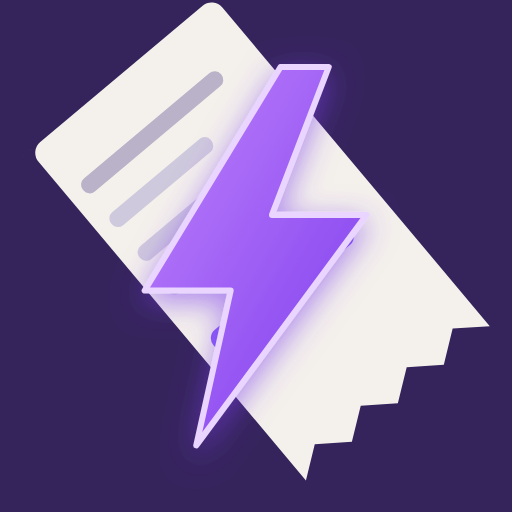
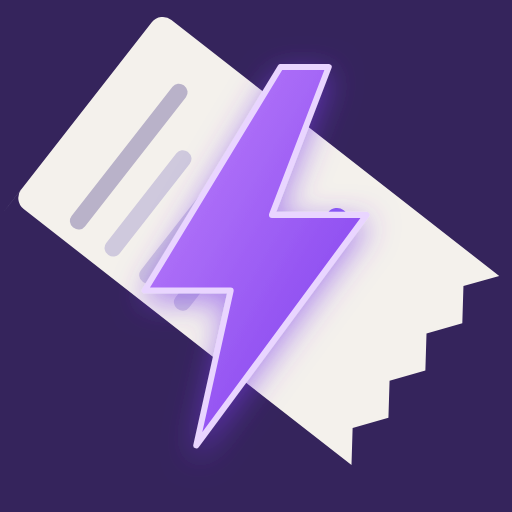
アイコンの領収書の傾きを-52°に
Claude-Session: https://claude.ai/code/session_01M7TmCoUV6As5ur3WRm9Z6P

diff --git a/docs/index.html b/docs/index.html
@@ -592,7 +592,7 @@ const DRAFT_IMAGE_ID = "__draft__";
 const CROP_DRAFT_IMAGE_ID = "__crop_draft__"; // トリミング前の選択写真（リロード復元用）
 const DEFAULT_MODEL = "gpt-5.4";
 // UIに関わる変更をpushするたびに更新する（設定タブに表示。キャッシュで旧版が出ていないかの確認用）
-const APP_VERSION = "2026-07-08.21 アイコンの傾き-40°";
+const APP_VERSION = "2026-07-08.22 アイコンの傾き-52°";
 
 // OCRプロンプト: ExpenseVBA(modReceiptOCR.bas)と同一文言。抽出品質を揃えるため変更時は両方を同期すること
 const PROMPT = [